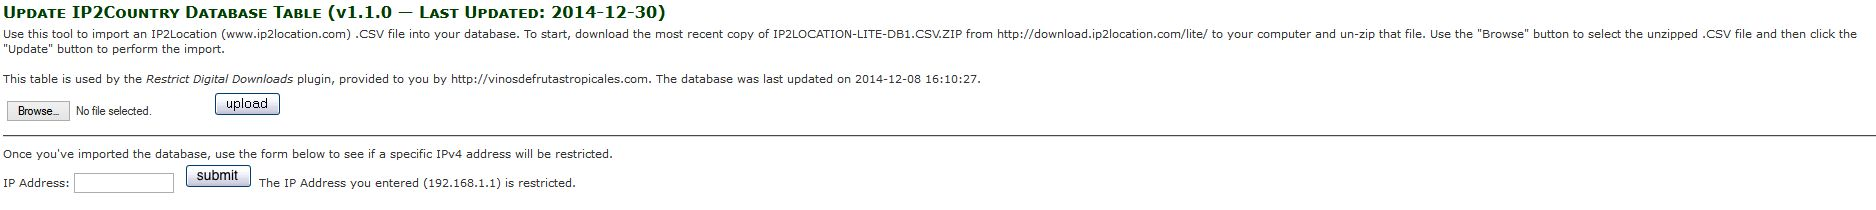
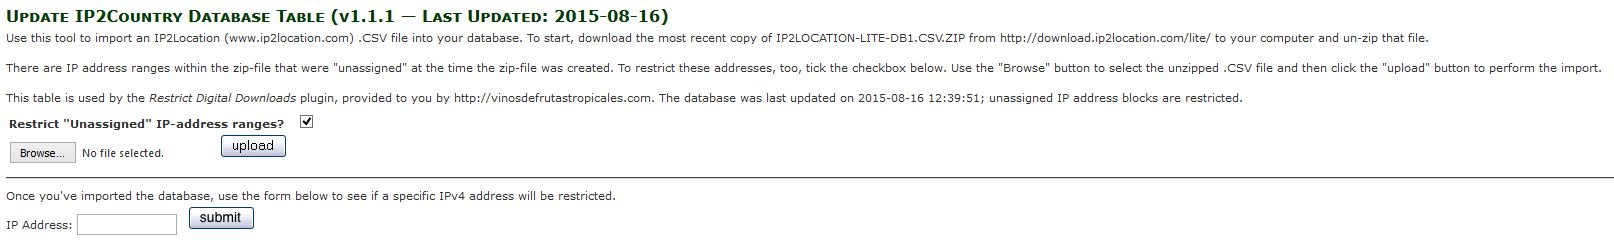
#7, #8: Unassigned addresses can be unrestricted
Updated to allow the "unassigned" addresses in the input CSV to
optionally be restricted and include the IPv4 address' integer value to
be displayed in the test tool for debug.

Changed region(s): [[0.0, 0.0286, 0.9913, 0.3143], [0.0, 0.3429, 1.0, 0.6857], [0.0, 0.7143, 1.0, 0.9714]]

diff --git a/readme.html b/readme.html
@@ -38,7 +38,7 @@ ul li ul { padding-left: 0; }
 <body>
 <a name="top" id="top"></a>
 <h1>Restrict Digital Downloads (RDD)</h1>
-<h3>Version 1.1.0 by lat9</h3>
+<h3>Version 1.1.1 by lat9</h3>
 <p>Current support thread at via the Zen Cart forums: <a href="http://www.zen-cart.com/showthread.php?215524-Restrict-Digital-Downloads-Support-Thread" target="_blank">http://www.zen-cart.com/showthread.php?215524-Restrict-Digital-Downloads-Support-Thread</a>.  This software is provided for your use under the GNU General Public License v2.0.</p>
 
 <h2>What it does</h2>
@@ -151,6 +151,15 @@ ul li ul { padding-left: 0; }
       <li>/includes/templates/YOUR_TEMPLATE/document_product_info/extra_main_template_vars/restrict_digital_downloads.php</li>
       <li>/includes/templates/YOUR_TEMPLATE/product_info/extra_main_template_vars/restrict_digital_downloads.php</li>
       <li>/includes/templates/YOUR_TEMPLATE/product_music_info/extra_main_template_vars/restrict_digital_downloads.php</li>
+      <li>/YOUR_ADMIN/tools_update_ip2country.php</li>
+      <li>/YOUR_ADMIN/includes/init_includes/init_ip2country.php</li>
+      <li>/YOUR_ADMIN/includes/languages/english/tools_update_ip2country.php</li>
+    </ul></li>
+  </ul></li>
+  <li>v1.1.1, 2015-08-16:<ul>
+    <li>CHANGE: Include an IP address' IPv4 &quot;integer&quot; calculation in the IP address test form's output.</li>
+    <li>CHANGE: Add a configuration setting to allow sites to choose whether or not to restrict the &quot;Not Assigned&quot; IP addresses.</li>
+    <li>The following files were changed:<ul>
       <li>/YOUR_ADMIN/tools_update_ip2country.php</li>
       <li>/YOUR_ADMIN/includes/init_includes/init_ip2country.php</li>
       <li>/YOUR_ADMIN/includes/languages/english/tools_update_ip2country.php</li>

diff --git a/YOUR_ADMIN/tools_update_ip2country.php b/YOUR_ADMIN/tools_update_ip2country.php
@@ -2,7 +2,7 @@
 // ---------------------------------------------------------------------------
 // Part of the IP2Country support needed for the "Restrict Digital Downloads" plugin
 //
-// Copyright (C) 2014, Vinos de Frutas Tropicales (lat9)
+// Copyright (C) 2014-2015, Vinos de Frutas Tropicales (lat9)
 //
 // @license http://www.zen-cart.com/license/2_0.txt GNU Public License V2.0
 // ---------------------------------------------------------------------------
@@ -34,7 +34,11 @@ if (isset ($_POST['action'])) {
             
           } else {
             $db->Execute ("TRUNCATE " . TABLE_IP2COUNTRY);
-            $search_string = IP2COUNTRY_RESTRICTED_COUNTRIES . ',-';
+            $search_string = IP2COUNTRY_RESTRICTED_COUNTRIES;
+            if (isset ($_POST['restrict_unassigned'])) {
+              $search_string .= ',-';
+              
+            }
             $entry_count = 0;
             $values = '';
             while ( ($data = fgetcsv ($handle) ) !== FALSE ) {
@@ -64,6 +68,7 @@ if (isset ($_POST['action'])) {
           ini_set ('auto_detect_line_endings', FALSE);
           
           if ($num_records > 0) {
+            $db->Execute ("UPDATE " . TABLE_CONFIGURATION . " SET configuration_value = '" . ((isset ($_POST['restrict_unassigned'])) ? '1' : '0') . "' WHERE configuration_key = 'MODULE_IP2COUNTRY_UNASSIGNED_RESTRICTED' LIMIT 1");
             $db->Execute ("UPDATE " . TABLE_CONFIGURATION . " SET configuration_value = '" . date ('Y-m-d H:i:s') . "' WHERE configuration_key = 'MODULE_IP2COUNTRY_LAST_UPDATE' LIMIT 1");
             zen_redirect (zen_href_link (FILENAME_TOOLS_UPDATE_IP2COUNTRY));
             
@@ -82,7 +87,7 @@ if (isset ($_POST['action'])) {
         $ipv4_integer = $ipv4_quads[3] + $ipv4_quads[2] * 256 + $ipv4_quads[1] * 256 * 256 + $ipv4_quads[0] * 256 * 256 * 256;
         
         $ipv4_check = $db->Execute ("SELECT * FROM " . TABLE_IP2COUNTRY . " WHERE ip_from <= $ipv4_integer AND ip_to >= $ipv4_integer LIMIT 1");
-        $ip_address_message = sprintf (MESSAGE_IP_ADDRESS_STATUS, $_POST['ip_address'], (($ipv4_check->EOF) ? MESSAGE_IP_ADDRESS_NOT_RESTRICTED : ''));
+        $ip_address_message = sprintf (MESSAGE_IP_ADDRESS_STATUS, $_POST['ip_address'], $ipv4_integer, (($ipv4_check->EOF) ? MESSAGE_IP_ADDRESS_NOT_RESTRICTED : ''));
         
       }
       break;
@@ -149,6 +154,7 @@ function init() {
 <!-- body //-->
 <?php
 $last_updated = MODULE_IP2COUNTRY_LAST_UPDATE;
+$unassigned_restricted = (MODULE_IP2COUNTRY_UNASSIGNED_RESTRICTED == '1') ? '' : MESSAGE_IP_ADDRESS_NOT_RESTRICTED;
 ?>
 <table border="0" width="100%" cellspacing="2" cellpadding="2">
   <tr>
@@ -163,10 +169,13 @@ $last_updated = MODULE_IP2COUNTRY_LAST_UPDATE;
       </tr>
 
       <tr>
-        <td><?php echo TEXT_IP2L_INSTRUCTIONS; ?></td>
+        <td><?php echo sprintf (TEXT_IP2L_INSTRUCTIONS, $unassigned_restricted); ?></td>
       </tr>
       <tr>
         <td><?php echo zen_draw_form ('choose_csv', FILENAME_TOOLS_UPDATE_IP2COUNTRY, '', 'post', 'enctype="multipart/form-data"') . zen_draw_hidden_field ('action', 'update'); ?><table width="100%">
+          <tr>
+            <td><?php echo '<b>' . LABEL_RESTRICT_UNASSIGNED . '</b>&nbsp;&nbsp;' . zen_draw_checkbox_field ('restrict_unassigned', '', (MODULE_IP2COUNTRY_UNASSIGNED_RESTRICTED == '1')); ?></td>
+          </tr>
           <tr>
             <td><?php /*<input type="hidden" name="MAX_FILE_SIZE" value="30000" />*/?><?php echo zen_draw_file_field ('csv_file') . '&nbsp;&nbsp;&nbsp;' . zen_image_submit ('button_upload.gif', IMAGE_UPLOAD); ?></td>
           </tr>

diff --git a/YOUR_ADMIN/includes/languages/english/tools_update_ip2country.php b/YOUR_ADMIN/includes/languages/english/tools_update_ip2country.php
@@ -2,7 +2,7 @@
 // ---------------------------------------------------------------------------
 // Part of the IP2Country support needed for the "Restrict Digital Downloads" plugin.
 //
-// Copyright (C) 2014, Vinos de Frutas Tropicales (lat9)
+// Copyright (C) 2014-2015, Vinos de Frutas Tropicales (lat9)
 //
 // @license http://www.zen-cart.com/license/2_0.txt GNU Public License V2.0
 // ---------------------------------------------------------------------------
@@ -10,14 +10,15 @@
 define ('HEADING_TITLE', 'Update IP2Country Database Table');
 define ('TEXT_LAST_UPDATED', 'Last Updated: ');
 
-define ('TEXT_IP2L_INSTRUCTIONS', 'Use this tool to import an IP2Location (www.ip2location.com) .CSV file into your database.  To start, download the most recent copy of IP2LOCATION-LITE-DB1.CSV.ZIP from http://download.ip2location.com/lite/ to your computer and un-zip that file.  Use the &quot;Browse&quot; button to select the unzipped .CSV file and then click the &quot;Update&quot; button to perform the import.<br /><br />This table is used by the <em>Restrict Digital Downloads</em> plugin, provided to you by http://vinosdefrutastropicales.com.  The database was last updated on ' . MODULE_IP2COUNTRY_LAST_UPDATE . '.');
+define ('TEXT_IP2L_INSTRUCTIONS', 'Use this tool to import an IP2Location (www.ip2location.com) .CSV file into your database.  To start, download the most recent copy of IP2LOCATION-LITE-DB1.CSV.ZIP from http://download.ip2location.com/lite/ to your computer and un-zip that file.<br /><br />There are IP address ranges within the zip-file that were &quot;unassigned&quot; at the time the zip-file was created.  To restrict these addresses, too, tick the checkbox below. Use the &quot;Browse&quot; button to select the unzipped .CSV file and then click the &quot;upload&quot; button to perform the import.<br /><br />This table is used by the <em>Restrict Digital Downloads</em> plugin, provided to you by http://vinosdefrutastropicales.com.  The database was last updated on ' . MODULE_IP2COUNTRY_LAST_UPDATE . '; unassigned IP address blocks are %s restricted.');  //-%s contains either '' or 'not'
 
+define ('LABEL_RESTRICT_UNASSIGNED', 'Restrict &quot;Unassigned&quot; IP-address ranges? ');
 define ('ERROR_NO_FILE_SPECIFIED', 'Please choose a CSV file to be uploaded.');
 define ('ERROR_FILE_NOT_FOUND', 'The file you specified was not found, please try again.');
-define ('MESSAGE_NUM_RECORDS', 'Processing complete. %u records were added to the ' . TABLE_IP2COUNTRY . ' database table.');
+define ('MESSAGE_NUM_RECORDS', 'Processing complete. %u records were added to the ' . TABLE_IP2COUNTRY . ' database table.'); 
 
 define ('TEXT_IP_ADDRESS_INSTRUCTIONS', 'Once you\'ve imported the database, use the form below to see if a specific IPv4 address will be restricted.');
 define ('LABEL_IP_ADDRESS', 'IP Address: ');
 define ('ERROR_INVALID_IP_ADDRESS', 'The IP Address you entered is not valid, please re-enter the value.');
-define ('MESSAGE_IP_ADDRESS_STATUS', 'The IP Address you entered (%1$s) is %2$s restricted.');  //-%1$s is the IP Address, %2$s contains either '' or the following
+define ('MESSAGE_IP_ADDRESS_STATUS', 'The IP Address you entered (%1$s, %2$s) is %3$s restricted.');  //-%1$s is the IP Address, %2$s is its numeric value, %3$s contains either '' or the following
 define ('MESSAGE_IP_ADDRESS_NOT_RESTRICTED', '<b>not</b>');

diff --git a/YOUR_ADMIN/includes/init_includes/init_ip2country.php b/YOUR_ADMIN/includes/init_includes/init_ip2country.php
@@ -11,8 +11,8 @@ if (!defined('IS_ADMIN_FLAG')) {
   die('Illegal Access');
 }
 
-define('IP2COUNTRY_CURRENT_VERSION', '1.1.0');
-define('IP2COUNTRY_UPDATE_DATE', '2015-04-06');
+define('IP2COUNTRY_CURRENT_VERSION', '1.1.1');
+define('IP2COUNTRY_UPDATE_DATE', '2015-08-16');
 
 function init_i2l_next_sort($menu_key) {
   global $db;
@@ -44,9 +44,17 @@ if (!defined('MODULE_IP2COUNTRY_VERSION')) {
 }
 
 // -----
+// Add a hidden configuration value that identifies whether or not the last IP2LOCATION import restricted "unassigned" IP address blocks.
+//
+if (!defined ('MODULE_IP2COUNTRY_UNASSIGNED_RESTRICTED')) {
+  $db->Execute("INSERT INTO " . TABLE_CONFIGURATION . " (configuration_title, configuration_key, configuration_value, configuration_description, configuration_group_id, sort_order, date_added) VALUES ('IP2COUNTRY: Restrict Unassigned Ranges', 'MODULE_IP2COUNTRY_UNASSIGNED_RESTRICTED', '1', 'The value is set to 1 if the last IP2COUNTRY import restricted \"Unassigned\" IP Address ranges.', '6', '103', now())");
+  
+}
+
+// -----
 // Update the configuration table to reflect the current version, if it's not already set.
 //
-if (MODULE_IP2COUNTRY_VERSION != IP2COUNTRY_CURRENT_VERSION) {
+if (MODULE_IP2COUNTRY_VERSION != IP2COUNTRY_CURRENT_VERSION || MODULE_IP2COUNTRY_RELEASE_DATE != IP2COUNTRY_UPDATE_DATE) {
   $db->Execute ("UPDATE " . TABLE_CONFIGURATION . " SET configuration_value = '" . IP2COUNTRY_CURRENT_VERSION . "' WHERE configuration_key = 'MODULE_IP2COUNTRY_VERSION'");
   $db->Execute ("UPDATE " . TABLE_CONFIGURATION . " SET configuration_value = '" . IP2COUNTRY_UPDATE_DATE . "' WHERE configuration_key = 'MODULE_IP2COUNTRY_RELEASE_DATE'");
   
